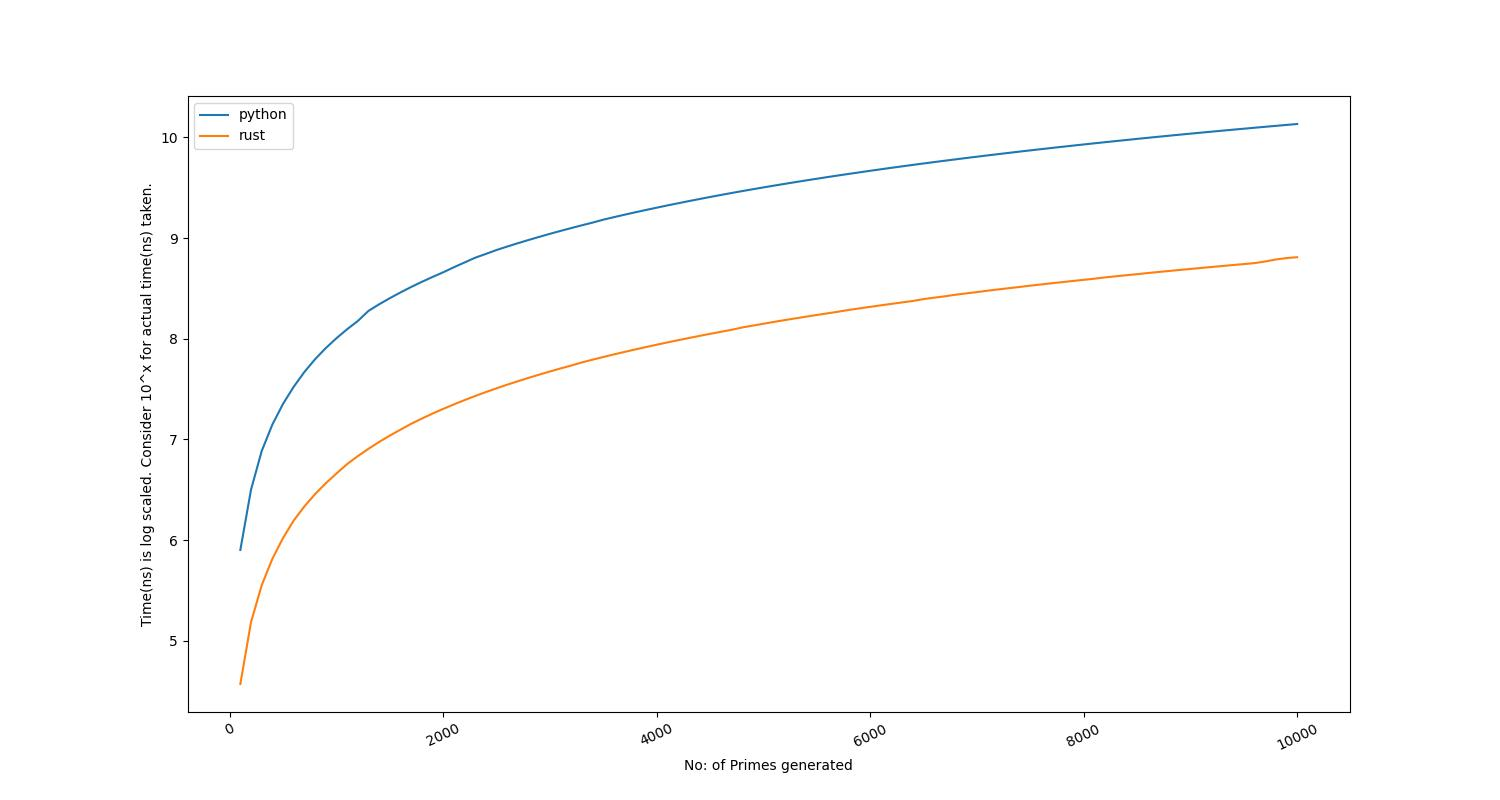
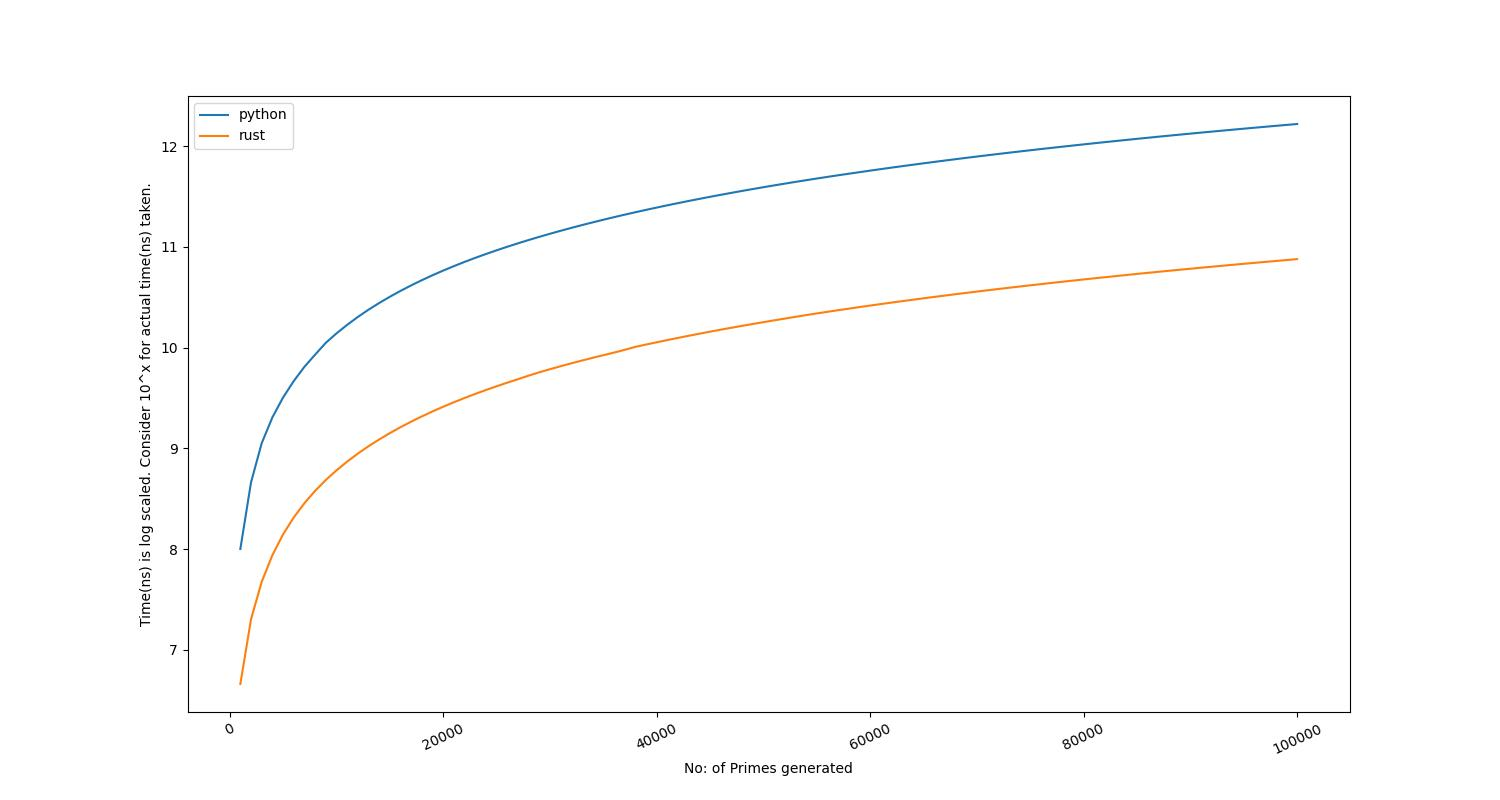
benchmark image and updated Reamdme

diff --git a/README.md b/README.md
@@ -7,5 +7,5 @@ Note: The above graph is autogenerated for every github action run. Tweak the pa
 
 |Language|nth prime|time taken|
 |---|---|---|
-|python|10000|13.549s|
-|rust|10000|0.645s|
+|python|100000|1662.517s|
+|rust|100000|75.657s|
